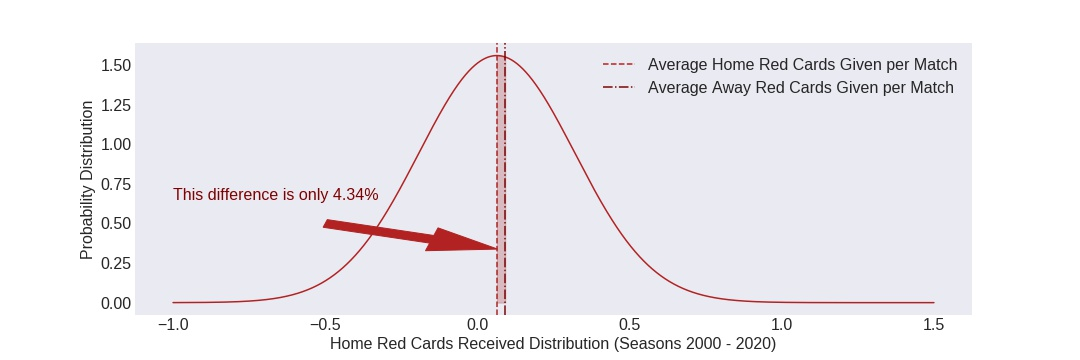
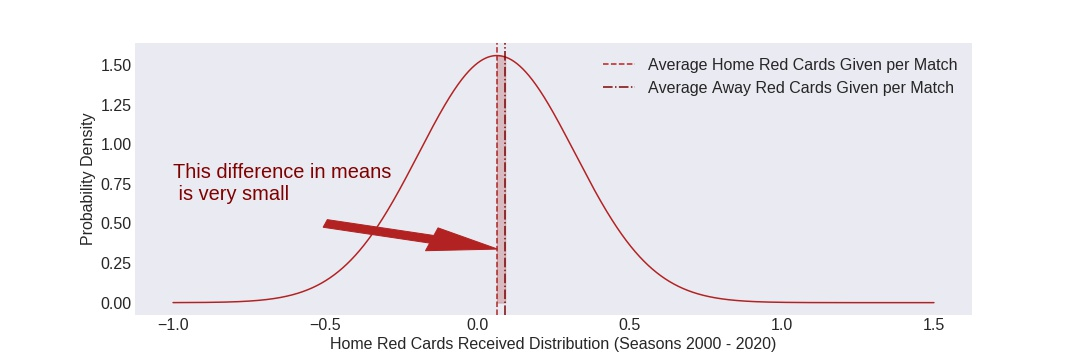
im going to bed

Changed region(s): [[0.1528, 0.4583, 0.3667, 0.5806], [0.0611, 0.275, 0.0917, 0.7028]]

diff --git a/src/Cap1FinalCode.py b/src/Cap1FinalCode.py
@@ -17,6 +17,24 @@ working_df = working_df.iloc[:,1:]
 
 df = working_df.copy()
 
+total_home_yellow = sum(df.HY)
+total_away_yellow = sum(df.AY)
+total_home_red = sum(df.HR)
+total_away_red = sum(df.AR)
+
+plt.style.use('seaborn-dark')
+fig = plt.figure(figsize=(16,7))
+fig.patch.set_facecolor('gainsboro')
+ax1 = fig.add_subplot(121)
+ax2 = fig.add_subplot(122)
+
+ax1.pie([total_home_yellow,total_away_yellow],labels=['Home Yellow','Away Yellow'],colors=['goldenrod','darkgoldenrod'],autopct='%1.1f%%',startangle=90)
+ax2.pie([total_home_red, total_away_red],labels=['Home Red','Away Red'],colors=['firebrick','maroon'],autopct='%1.1f%%', startangle=90)
+
+plt.tight_layout()
+plt.savefig('../images/total_card_pie')
+plt.show()
+
 def yearlyDf(base_df,yrs): # splits the data frame into seasons and outputs the files as csv's that can be loaded into season by season data frames
     for yr in yrs:
         start = str(yr)+'-08-01'
@@ -124,11 +142,6 @@ away_yellow_std = np.std(df.AY)
 home_red_std = np.std(df.HR)
 away_red_std = np.std(df.AR)
 
-total_home_yellow = sum(df.HY)
-total_away_yellow = sum(df.AY)
-total_home_red = sum(df.HR)
-total_away_red = sum(df.AR)
-
 hnorm_yell = stats.norm(home_yellow_mean,home_yellow_std) # normal distribution of home yellow cards
 anorm_yell = stats.norm(away_yellow_mean,away_yellow_std) # normal distribution of away yellow cards
 delta_yell = hnorm_yell.cdf(away_yellow_mean) - hnorm_yell.cdf(home_yellow_mean) # difference in the area of the distribution between the means of home and away yellows
@@ -155,13 +168,13 @@ ax.axvline(home_red_mean,color='firebrick',linestyle='--',label='Average Home Re
 ax.axvline(away_red_mean,color='maroon',linestyle='-.',label='Average Away Red Cards Given per Match')
 
 ax.set_xlabel('Home Red Cards Received Distribution (Seasons 2000 - 2020)')
-ax.set_ylabel('Probability Distribution')
+ax.set_ylabel('Probability Density')
 ax.fill_between(x, hnorm_red.pdf(x), 0, 
                    where=( (x <= away_red_mean) & (x>=home_red_mean)),
                    color="darkred", alpha=0.2)
 
 ax.arrow(-0.5,0.5,0.35,-0.1,color='firebrick', width=0.05)
-ax.text(-1,0.65,f'This difference is only {round(delta_red*100,3)}%',color='maroon')
+ax.text(-1,0.65,f'This difference in means\n is very small',color='maroon',fontsize=20)
 
 plt.legend()
 plt.savefig('/home/josh/Documents/dsi/caps/cap1/images/Home_red_normdist.jpeg')
@@ -183,7 +196,7 @@ ax.fill_between(x, hnorm_yell.pdf(x), 0,
                    where=( (x <= away_yellow_mean) & (x>=home_yellow_mean)),
                    color="orange", alpha=0.2)
 ax.arrow(3.5,0.15,-1.55,-0.05,color='darkgoldenrod', width=0.04)
-ax.text(3.6,0.175,f'This is {round(delta_yell*100,3)}%, but\n not enough to be\n significant',color='darkgoldenrod',fontsize=20)
+ax.text(3.6,0.175,f'This difference between\n average away yellows\n and home yellows is\n not large',color='darkgoldenrod',fontsize=20)
 plt.legend(loc='upper left')
 plt.savefig('/home/josh/Documents/dsi/caps/cap1/images/Home_yellow_normdist.jpeg')
 plt.show()

diff --git a/README.md b/README.md
@@ -1,6 +1,22 @@
-# Do You Influence Your Team's Chance of Winning?
+# Fan Influence in the English Premier League
+<p align="center">
+  <img width="800" height="550" src="./images/epllogo.jpeg">
+</p>
 
-## Overview
+
+
+
+## Table of Contents 
+
+  1. [Overview](#overview)
+  2. [Question and Hypothesis](#quest&hyp)
+  3. [Exploratory Data Analysis](#EDA)
+  4. [Visualization](#graphs)
+  5. [Conclusion](#conclusion)
+  6. [Credits](#Credits)
+
+
+## Overview - Do You Influence Your Team's Chance of Winning?
 
 In the world of professional soccer a players ability to read and react to the game is everything.  If you are the first to the ball, you control the situation, thereby giving your team the advantage in this moment.  As you sit in the stands watching your team battle it out against a hated rival, a loose ball rolls to an open spot on the field directly in between one of your players and one of their's.  As they sprint to the ball, your team gets there first and toes the ball past an out-of-contol opponent who crashes into your player.  A split-second before contact occurs, you and 60,000 of your commrades howl for blood.  The referee obliges and shows their player a red card, giving your team a massive advantage for the rest of the game.  
 
@@ -8,24 +24,77 @@ A few seconds later, you reflect on the tackle.  It really wasn't that bad.  It 
 
 In soccer players who commited fouls cede a free kick to the opposing team at the position where the foul occurred.  If the ref deems a certain foul to be sufficiently reckless, the ref will show the player a yellow card.  This is akin to a technical foul in basketball.  If that player commits a second bookable offense, they are shown a second yellow and ejected from the game without replacement (i.e. two yellow cards equals one red).  If a foul is dangerous to the opposing player, that play can be shown a straight red card and ejected from the game without replacement.  
 
-## Questions
-  1. Are referees significantly more likely to show red and yellow cards to away players?
-  2. Are referees significantly more likely to show red and yellow cards to players on smaller clubs, regardless of whether they are home or away?
-  3. 
+## Question and Hypothesis
+  - Are referees significantly more likely to show red and yellow cards to away players?
 
-## EDA
+I wanted to give this a test to see if the disparity between offenses punished on the road was enough to make a statistical difference over time.  But to be fair, I am sure that league officials have pondered this effect before so I aimed to take a more laxed look and lower my definition of what is 'significant'.  Do do this, I am considered the following:
+  - Null Hypothesis: The number of bookings received by away players may be greater, but it is not significantly so.
+  - Alternate Hypothesis:  The number of bookings received by away players is great enough to possibly have an effect on the outcome of matches.
+  - Significance Level: 0.25 
+  
+## Exploratory Data Analysis
+I found a great resource on [Kaggle](https://www.kaggle.com/irkaal/english-premier-league-results) from a user named irkaal. This csv contains all the games from the beginning of the 2000-2001 season through to matches played this month. The major concern was that the referee's names were in several different forms. My solution to this was to create a referee dictionary with the last names of the referees as the keys and a string of first and last names as the values.  To do this, I separated the last names in the referee column and created a new column.  Next I created a list of referees based on those names in a text file.  Lastly, I combined the last names and list into a dictionary and created a new 'ref_name' column in my data frame that input the full standardized name of the ref from the dictionary.  
 
+Other than that, the data was solid.  There were about 25 rows of Nan values at the end that I lopped off, and I had to change the 'Date' column from a string to a datetime format, but minor switches.  The code I used to clean my data can be found [here](https://github.com/joshaldous/Galvinize-Capstone1/blob/master/src/EDACap1.py).
 
 ## Visualization
 
-Judging the word 'significantly' in my questions above is a bit tricky.  As a general formula, home teams tend to attack and be on the front foot more, while away teams try to keep an organized, defensive shape and patiently wait for oppurtunities to score.  At least that is how it was for most of the 20th century.  That formula is shifting to more of one where certain teams play certain ways regardless of where the match is held.  So, straight away I wanted to see if the number of cards given to home teams was about equal to the number of cards given to away teams as a starting point.  
+As a general formula, home teams tend to attack and be on the front foot more, while away teams try to keep an organized, defensive shape and patiently wait for oppurtunities to score.  At least that is how it was for most of the 20th century.  That formula is shifting to more of one where certain teams play certain ways regardless of where the match is held, but for at least the early part of my data, that could be considered to be a factor.  However, even if this is the case, there is still plenty of time in a match for home team players to be booked.  There are fast-breaking counter-attacks, tired-legs and tired-minds which can lead to rash decisions, and no team controls the ball for 90% of 90 minutes. So, straight away I wanted to see if the number of cards given to home teams was about equal to the number of cards given to away teams as a starting point.  
 
+<p align="center">
+  <img width="1000" height="450" src="./images/total_card_pie.png">
+</p>
 
+So you are more likely to be booked on the road. This got me a bit more interested and so I started to dig into the data more.  What do the scatter plots look like when you plot the home cards against the away cards?  I added in a diagonal line to show where we would expect the numbers to be if the distribution was truly random.
+
+<p align="center">
+  <img width="1000" height="450" src="./images/Home_and_Away_Yellows_Brandished_per_Referee_(Season_2000-2020).png">
+</p>
+
+<p align="center">
+  <img width="1000" height="450" src="./images/Home_and_Away_Reds_Brandished_per_Referee_(Season_2000-2020).png">
+</p>
+
+When I first looked at the Red Card scatter plot, I was surprised to see that most of the referees were on the 'home' side of the diagonal line.  The number of away reds are a greater propotion of the total red cards than the away yellows.  How could this be?  After a second glance, I noticed that the y-axis is twice what the x-axis values are.  This makes more sense.  In a one-to-one scatter plot, the dots representing each referee would be higher, but the graph overall would be more stretched out.  
+
+There is one more visualization that I think makes this point clearly. The mean number of games reffed by a Premier League referee is about 120.  That's a little more than 3 seasons of games.  To get this number of games, the Professional Game Match Officials Limited (PGMOL), the group that oversees EPL officials, must hold you in high esteem.  These refs have to be the best at being impartial and calling matches according to the current rules.  The following graphs show the number of home and away cards shown by these top officials.
+
+<p align="center">
+  <img width="1000" height="450" src="./images/Home_and_Away_Yellow_Cards_for_Referees_that_have_Overseen_at_least_120_Games.jpeg">
+</p>
+
+<p align="center">
+  <img width="1000" height="450" src="./images/Home_and_Away_Red_Cards_for_Referees_that_have_Overseen_at_least_120_Games.jpeg">
+</p>
+
+With the data prepared, I was ready to run my test.
 
 ## Conclusion
+
+In order to see if the difference card count was significant, I decided to run a z-test.  I could calculate the sample mean and standard deviation and had a sufficient number of samples, so I imported weightstats from statsmodels.stats for a 2-variable z-test. I ran the yellow cards first.  hnorm_yell.pdf(x) is the normal distribution for home yellow cards over the interval [-2,5], and anrom_yell.pdf(x) is the normal distribution for away yellows over that same interval. Degrees of freedom is one minus the number of matches in the sample, since each match is independent and random.  The p-value for this test was 0.997, which is much greater than my alpha of 0.25.  
+    
+    statmodel.ztest(hnorm_yell.pdf(x),anorm_yell.pdf(x),ddof=7569)
+    (0.0033134485216764734, 0.9973562554191262)
+
+Next, to the red cards. hnorm_red.pdf(x) is the normal distribution for home red cards over the interval [-1,1.5], with anorm_red.pdf(x) the normal distribution for away red cards over that same interval. The p-value for this test was 0.999, also much greater than my alpha of 0.25.
+
+    statmodel.ztest(hnorm_red.pdf(x),anorm_red.pdf(x),ddof=7569)
+    (4.0847710039192654e-11, 0.9999999999674083)
+
+In both cases, I cannot reject the null hypothesis.  In fact, the referees should be commended for their impartiatility.  I have two more visualizations to reinforce the result of the z-test.
+
+<p align="center">
+  <img width="800" height="400" src="./images/Home_yellow_normdist.jpeg">
+</p>
+
+<p align="center">
+  <img width="800" height="400" src="./images/Home_red_normdist.jpeg">
+</p>
 
 
 ## Credits
 
-
+ 1. I do not own, nor pretend to own any data, images, or copyrights having to do with the Premier League.  
+ 2. Data for the analysis was obtained from https://www.kaggle.com/irkaal/english-premier-league-results
+ 3. All plot were created by me using the data obtained and matplotlib.
 
